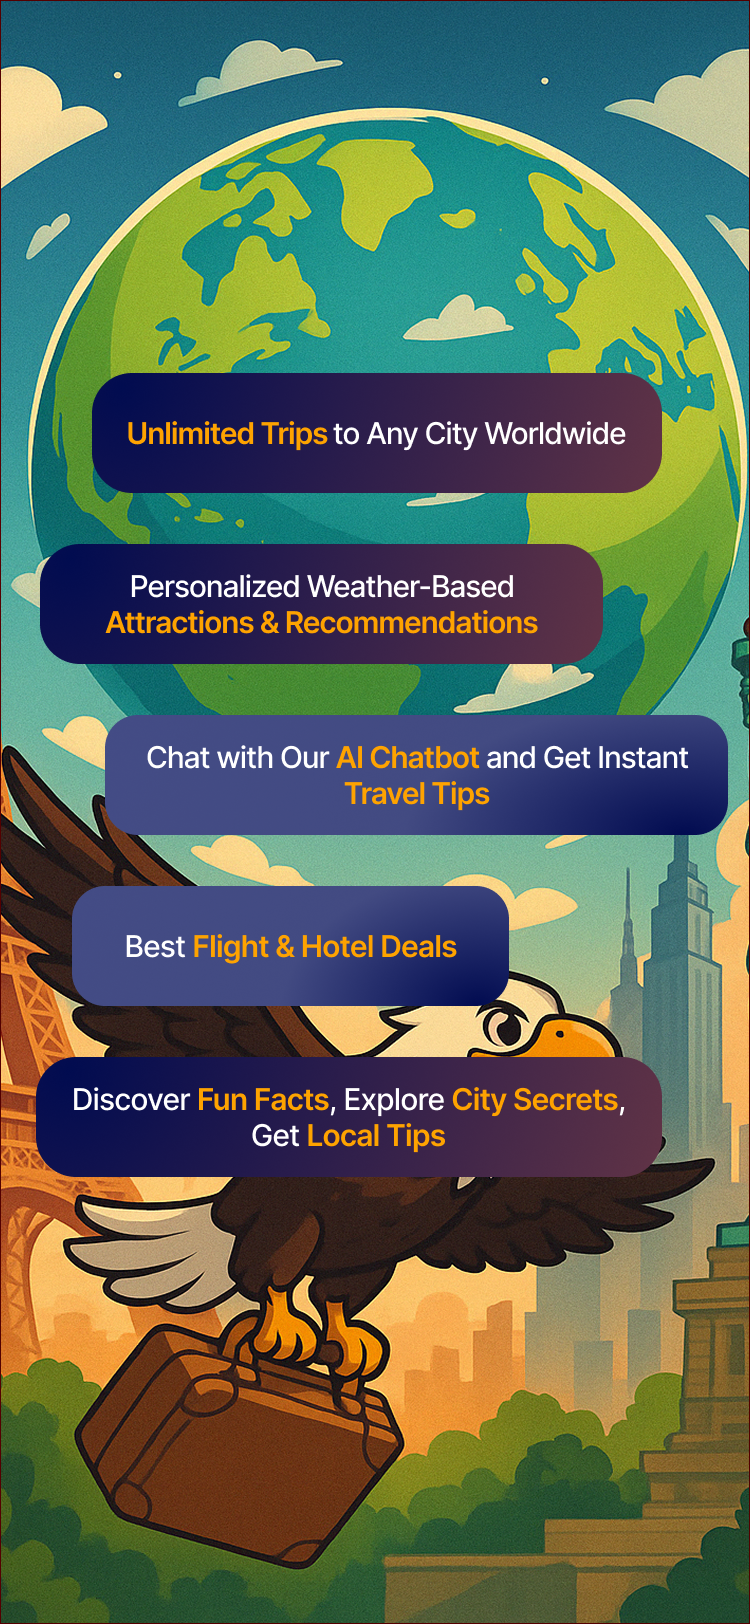
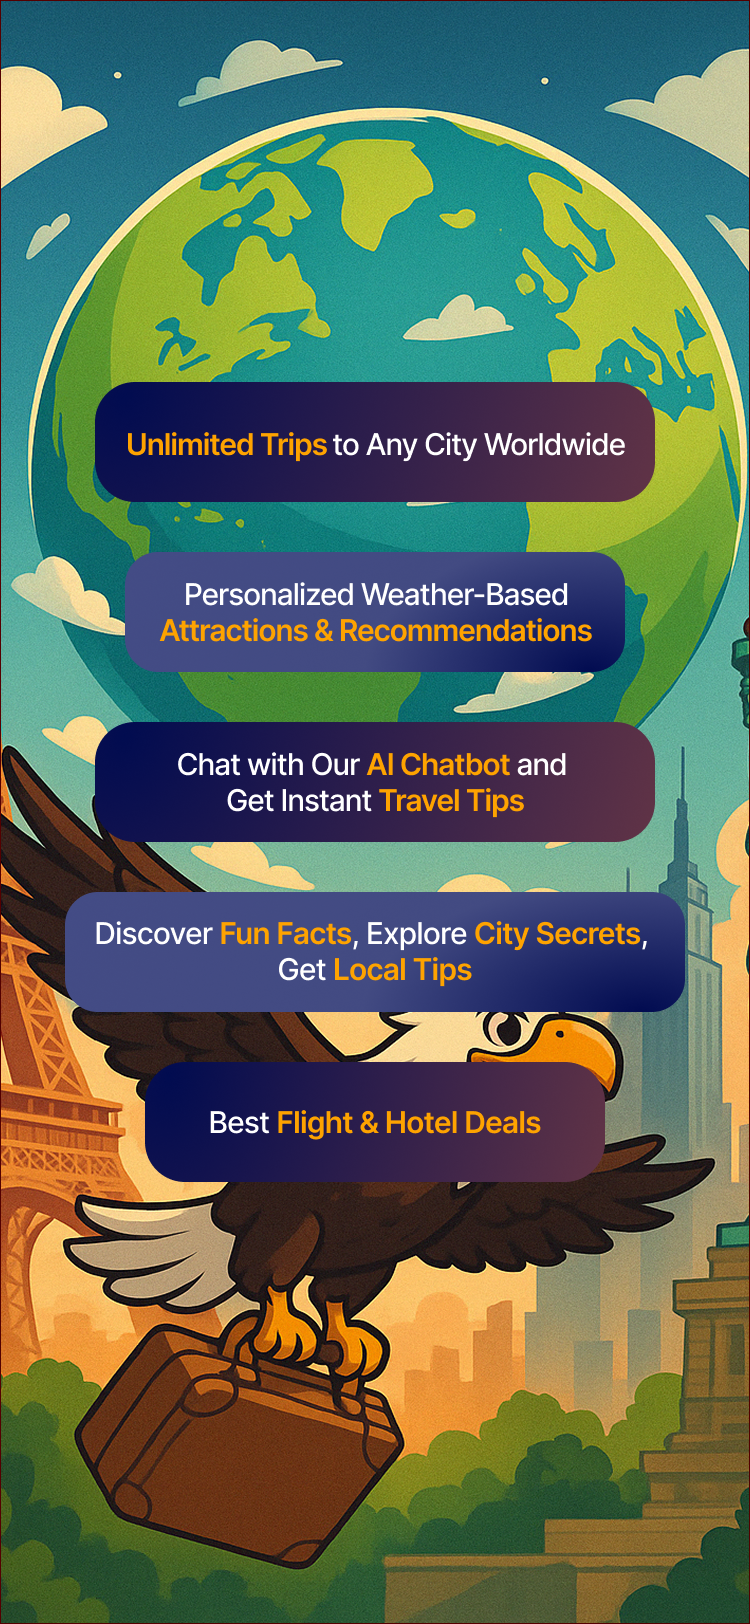
removed svgs

Changed region(s): [[0.0307, 0.2155, 0.9813, 0.7389]]

diff --git a/src/assets/svgs/index.js b/src/assets/svgs/index.js
@@ -1,37 +1,22 @@
 import BackIcon from './backIcon.svg'
-import Cross from './cross.svg'
 import Settings from './setting.svg'
-import Circle from './circle.svg'
-import CircleFill from './circleFill.svg'
 import Ai from './ai.svg'
-import Infinity from './infinity.svg'
-import AdsFree from './adsFree.svg'
-import Free from './free.svg'
 import Flash from './flash.svg'
 import Done from './done.svg'
 import Plus from './plus.svg'
-import Share from './share.svg'
 import Edit from './edit.svg'
-import Regenerate from './regenerate.svg'
-import Fullscreen from './fullScreen.svg'
-import NormalScreen from './normalScreen.svg'
-import AiStar from './aiStar.svg'
 import Close from './close.svg'
 import Send from './send.svg'
 import Stop from './stop.svg'
 import Person from './person.svg'
-import Robot from './robot.svg'
 import Search from './search.svg'
 import Minus from './minus.svg'
-import Plus2 from './plus2.svg'
 import Eagle from './eagle.svg'
 import Itinerary from './itinerary.svg'
 import Light from './light.svg'
 import Hotel from './hotel.svg'
 import TakeOff from './takeoff.svg'
-import AiBirn from './aiBirn.svg'
 import Copy from './copy.svg'
-import Eagle2 from './eagle2.svg'
 import Clock from './clock.svg'
 import Car from './car.svg'
 import Star from './star.svg'
@@ -39,39 +24,24 @@ import Heart from './heart.svg'
 
 export const SVG = {
     BackIcon,
-    Cross,
     Settings,
     Flash,
-    Circle,
-    CircleFill,
     Ai,
-    Infinity,
-    AdsFree,
-    Free,
     Done,
     Plus,
-    Share,
     Edit,
-    Regenerate,
-    Fullscreen,
-    NormalScreen,
-    AiStar,
     Close,
     Send,
     Stop,
     Person,
-    Robot,
     Search,
     Minus,
-    Plus2,
     Eagle,
     Itinerary,
     Light,
     Hotel,
     TakeOff,
-    AiBirn,
     Copy,
-    Eagle2,
     Clock,
     Car,
     Star,

diff --git a/src/assets/images/index.js b/src/assets/images/index.js
@@ -1,9 +1,7 @@
 const Onboarding1 = require('./onboarding1.png')
 const Heart = require('./heart.png')
-const Eagle2 = require('./eagle2.png')
 
 export const IMAGES = {
     Onboarding1,
-    Eagle2,
     Heart
 }